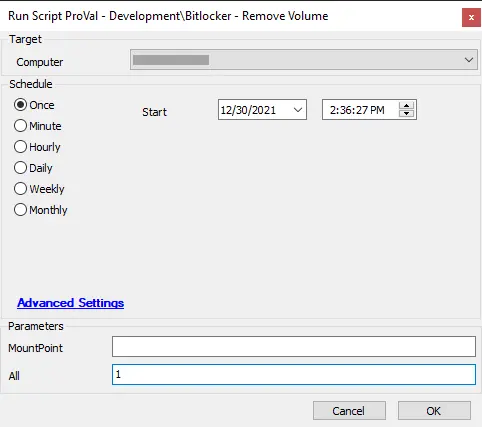
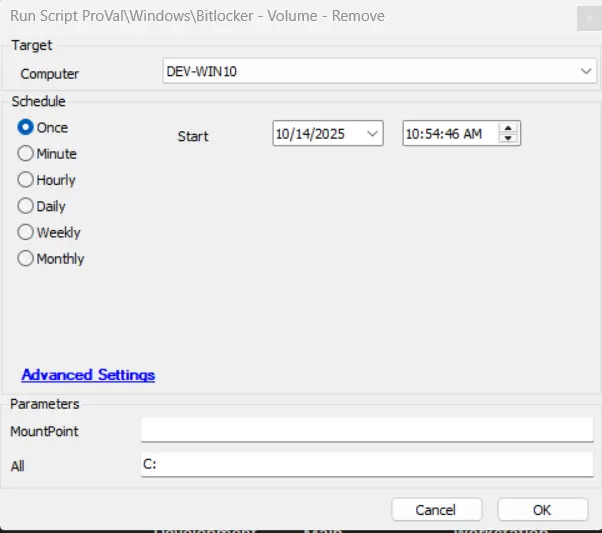
QA - Update 4
Deprecated Bitlocker - Key Retrieval
and updated a few scripts with latest screenshots and naming convention.

diff --git a/docs/cwa/scripts/bitlocker-volume-add-recovery-password-autofix.md b/docs/cwa/scripts/bitlocker-volume-add-recovery-password-autofix.md
@@ -12,11 +12,11 @@ unlisted: false
 
 ## Summary
 
-The script is designed to add a recovery password to a drive where BitLocker is enabled but a key protector is not found. It is a copy of the [SEC - Encryption - Script - Bitlocker - Volume - Initialize](/docs/759a5a88-17ef-42e0-9145-4760aff7a3c9) script with a hardcoded parameter.
+The script is designed to add a recovery password to a drive where BitLocker is enabled but a key protector is not found. It is a copy of the script [ Bitlocker - Volume - Initialize](/docs/759a5a88-17ef-42e0-9145-4760aff7a3c9) script with a hardcoded parameter.
 
-It will disable the currently applied BitLocker protection using the [SEC - Encryption - Script - Bitlocker - Remove Volume](/docs/710777f0-5c3f-4582-96e9-3beacaf085eb) script before re-enabling it with a Recovery Password protector.
+It will disable the currently applied BitLocker protection using the script [Bitlocker - Remove Volume](/docs/710777f0-5c3f-4582-96e9-3beacaf085eb) script before re-enabling it with a Recovery Password protector.
 
-The script will initialize the TPM if it is not already initialized, but it will not restart the computer. Please note that this script is not intended for manual execution. It is designed to be executed as an Autofix script from the [SEC - Encryption - Internal Monitor - Bitlocker - Missing Key Protectors](/docs/2609502c-8a9d-4e8d-98cb-e1b6f7fb2fdb) monitor set.
+The script will initialize the TPM if it is not already initialized, but it will not restart the computer. Please note that this script is not intended for manual execution. It is designed to be executed as an Autofix script from the [Bitlocker - Missing Key Protectors](/docs/2609502c-8a9d-4e8d-98cb-e1b6f7fb2fdb) monitor set.
 
 ## Sample Run
 
@@ -24,9 +24,9 @@ The script will initialize the TPM if it is not already initialized, but it will
 
 ## Dependencies
 
-- [SEC - Encryption - Internal Monitor - Bitlocker - Missing Key Protectors](/docs/2609502c-8a9d-4e8d-98cb-e1b6f7fb2fdb)
-- [SEC - Encryption - Script - Bitlocker - Audit](/docs/d7d933e3-9668-4de9-9f44-7452198ab85a)
-- [SEC - Encryption - Script - Bitlocker - Remove Volume](/docs/710777f0-5c3f-4582-96e9-3beacaf085eb)
+- [Internal Monitor - Bitlocker - Missing Key Protectors](/docs/2609502c-8a9d-4e8d-98cb-e1b6f7fb2fdb)
+- [Script - Bitlocker - Audit](/docs/d7d933e3-9668-4de9-9f44-7452198ab85a)
+- [Script - Bitlocker - Remove Volume](/docs/710777f0-5c3f-4582-96e9-3beacaf085eb)
 
 ## Variables
 

diff --git a/docs/cwa/scripts/bitlocker-remove-volume.md b/docs/cwa/scripts/bitlocker-remove-volume.md
@@ -1,8 +1,8 @@
 ---
 id: '710777f0-5c3f-4582-96e9-3beacaf085eb'
 slug: /710777f0-5c3f-4582-96e9-3beacaf085eb
-title: 'Bitlocker - Remove Volume'
-title_meta: 'Bitlocker - Remove Volume'
+title: 'Bitlocker - Volume - Remove'
+title_meta: 'Bitlocker - Volume - Remove'
 keywords: ['bitlocker', 'encryption', 'volume', 'disable', 'unprotect']
 description: 'This document provides a comprehensive guide on how to disable BitLocker protection on one or all volumes using a PowerShell script. It includes sample runs, user parameters, and dependencies required for execution.'
 tags: ['encryption', 'security', 'windows']
@@ -22,7 +22,7 @@ Disable BitLocker protection on one (or all) volumes.
 
 ## Dependencies
 
-- [SEC - Encryption - Agnostic - Unprotect-BitLockerVolume](/docs/22114d12-c60e-479e-93a5-50d3450b6631)
+- [Agnostic - Unprotect-BitLockerVolume](/docs/22114d12-c60e-479e-93a5-50d3450b6631)
 - PowerShell v5
 
 ### User Parameters
@@ -34,7 +34,7 @@ Disable BitLocker protection on one (or all) volumes.
 
 ## Process
 
-See process information in the document for [SEC - Encryption - Agnostic - Unprotect-BitLockerVolume](/docs/22114d12-c60e-479e-93a5-50d3450b6631).
+See process information in the document for [Agnostic - Unprotect-BitLockerVolume](/docs/22114d12-c60e-479e-93a5-50d3450b6631).
 
 ## Output
 

diff --git a/docs/cwa/scripts/bitlocker-enable-tpm.md b/docs/cwa/scripts/bitlocker-enable-tpm.md
@@ -12,7 +12,7 @@ unlisted: false
 
 ## Summary
 
-An Automate implementation of the agnostic script [SEC - Encryption - Agnostic - Enable-TPM](/docs/cc838fb3-1ff7-4bbd-90b3-48e7fd4afd61) initializes TPM as part of the provisioning process for a Trusted Platform Module (TPM). Provisioning is the process of preparing a TPM for use. A restart may be required to initialize TPM.
+An Automate implementation of the agnostic script [Agnostic - Enable-TPM](/docs/cc838fb3-1ff7-4bbd-90b3-48e7fd4afd61) initializes TPM as part of the provisioning process for a Trusted Platform Module (TPM). Provisioning is the process of preparing a TPM for use. A restart may be required to initialize TPM.
 
 ## Sample Run
 
@@ -20,7 +20,7 @@ An Automate implementation of the agnostic script [SEC - Encryption - Agnostic -
 
 ## Dependencies
 
-- [SEC - Encryption - Agnostic - Enable-TPM](/docs/cc838fb3-1ff7-4bbd-90b3-48e7fd4afd61)
+- [Agnostic - Enable-TPM](/docs/cc838fb3-1ff7-4bbd-90b3-48e7fd4afd61)
 
 #### Global Parameters
 

diff --git a/docs/cwa/scripts/bitlocker-volume-initialize.md b/docs/cwa/scripts/bitlocker-volume-initialize.md
@@ -28,7 +28,7 @@ Encrypts the E: volume of the target system with a TPM+PIN combination, allowing
 
 ## Dependencies
 
-- [SEC - Encryption - Agnostic - Initialize-BitLockerVolume](/docs/2ce835a2-3ac1-4291-baaf-8d3cac76869f)
+- [Agnostic - Initialize-BitLockerVolume](/docs/2ce835a2-3ac1-4291-baaf-8d3cac76869f)
 - PowerShell v5
 
 #### Global Parameters
@@ -70,7 +70,7 @@ Encrypts the E: volume of the target system with a TPM+PIN combination, allowing
 
 ## Process
 
-See detailed process information in the document for [SEC - Encryption - Agnostic - Initialize-BitLockerVolume](/docs/2ce835a2-3ac1-4291-baaf-8d3cac76869f).
+See detailed process information in the document for [Agnostic - Initialize-BitLockerVolume](/docs/2ce835a2-3ac1-4291-baaf-8d3cac76869f).
 
 When running the script, you must select a key protector type. Here is a brief explanation of each of them:
 

diff --git a/docs/cwa/scripts/bitlocker-volume-initialize-autofix-param-wrapper.md b/docs/cwa/scripts/bitlocker-volume-initialize-autofix-param-wrapper.md
@@ -23,8 +23,8 @@ Run it with `SetEnvironment = 1` to set the EDFs required for this script once a
 ## Dependencies
 
 - [Internal Monitor - BitLocker - Initialize Volume Deployment](/docs/925adfc5-e119-4c56-937a-a31c3e171371)
-- [SEC - Encryption - Script - BitLocker - Volume - Initialize](/docs/759a5a88-17ef-42e0-9145-4760aff7a3c9)
-- [SEC - Encryption - Script - BitLocker - Audit](/docs/d7d933e3-9668-4de9-9f44-7452198ab85a)
+- [Script - BitLocker - Volume - Initialize](/docs/759a5a88-17ef-42e0-9145-4760aff7a3c9)
+- [Script - BitLocker - Audit](/docs/d7d933e3-9668-4de9-9f44-7452198ab85a)
 
 #### EDFs
 

diff --git a/docs/cwa/scripts/bitlocker-recovery-password-ad-backup.md b/docs/cwa/scripts/bitlocker-recovery-password-ad-backup.md
@@ -22,7 +22,7 @@ This Automate script executes the `Backup-BitlockerRecoveryPW.ps1` agnostic scri
 
 ### Dependencies
 
-- [SEC - Encryption - Agnostic - Backup-BitlockerRecoveryPW](/docs/7eecbf0c-2b91-4454-ba5c-e1b9605f07fc)
+- [Backup-BitlockerRecoveryPW](/docs/7eecbf0c-2b91-4454-ba5c-e1b9605f07fc)
 
 ## Sample Run
 
